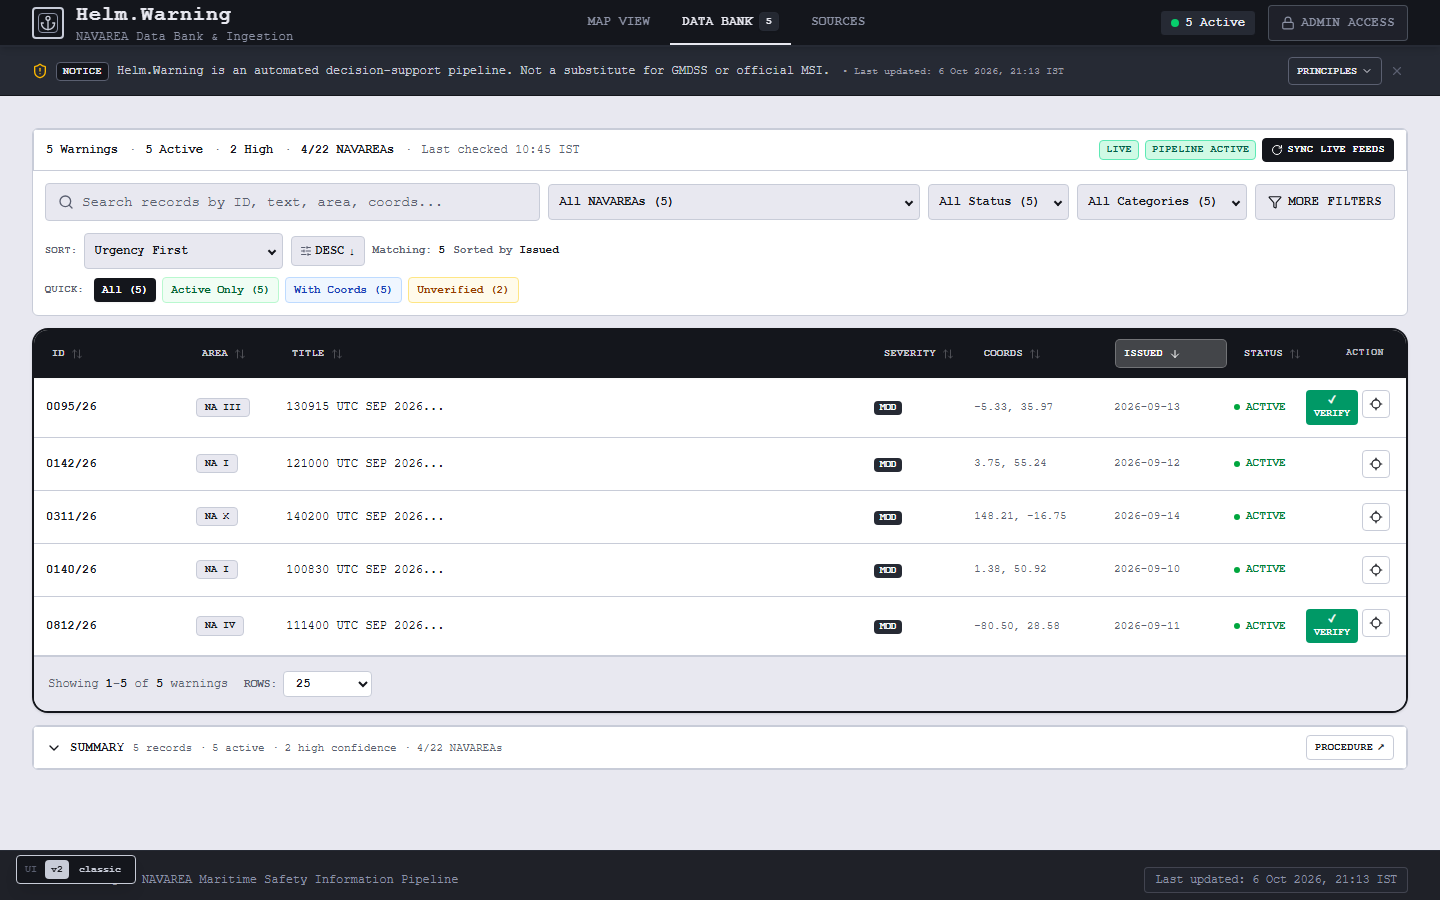
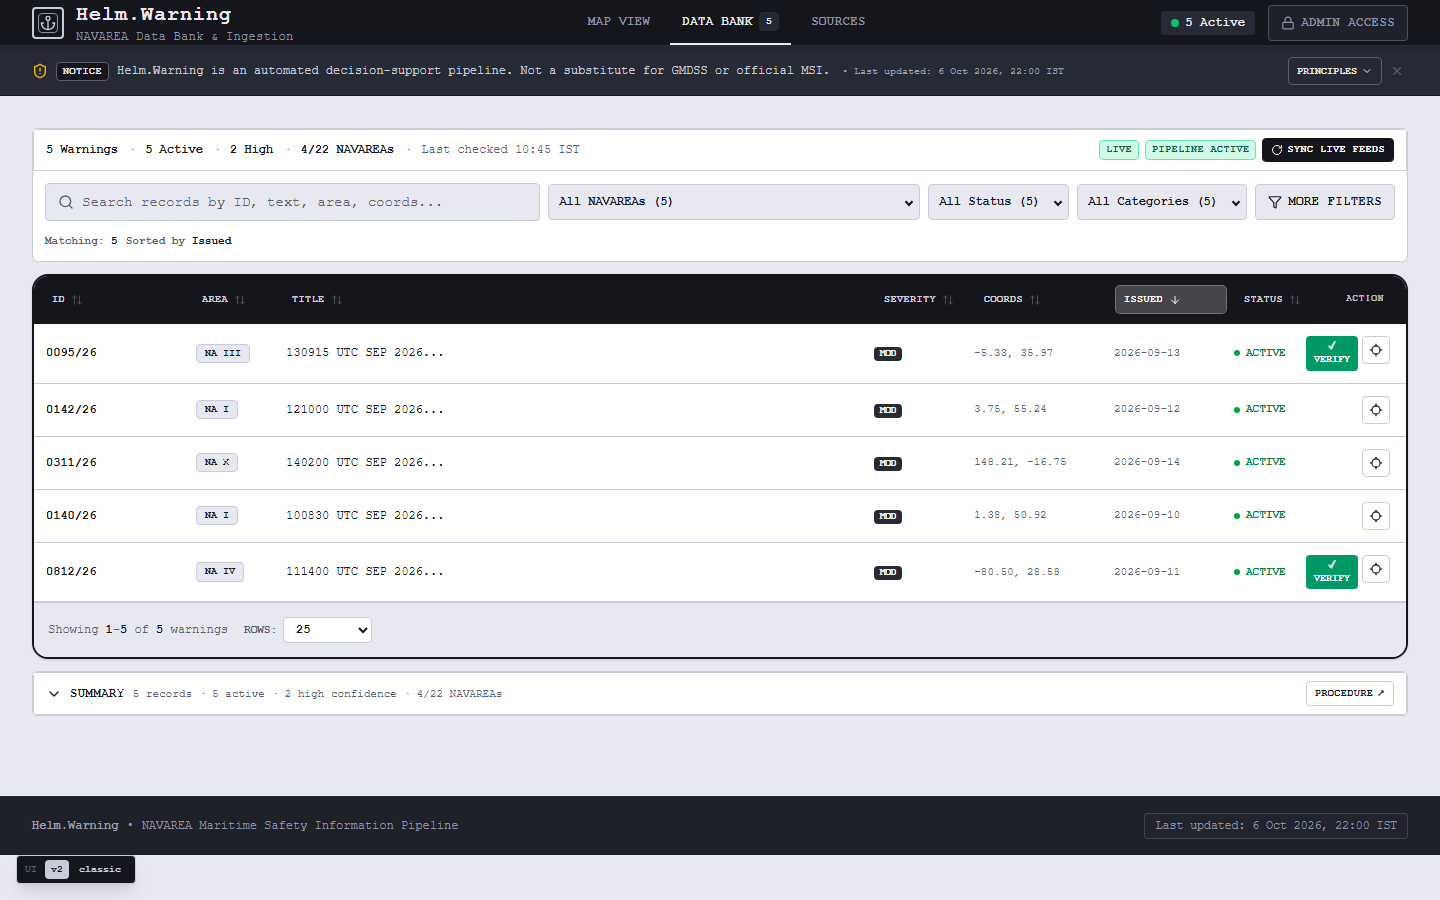
fix(ux): apply Task 3 review findings — v2 vocabulary + collapsed secondary controls
Finding 1 (constraint 10): the v2 default path newly surfaced three pre-existing
classic strings that expose parser/pipeline internals. Replaced with product
vocabulary on the v2 path only — badge fallback 'Manual Data Mode' (was
'Deterministic Parser'), summary fallback 'Manual Data Mode' (was 'Deterministic
Spatial Parser'), Sync tooltip 'Refresh live feeds now' (was 'Trigger live
pipeline fetch from hydrographic endpoints'). Classic keeps its originals; the
report's false 'no jargon added' claim is corrected.

Finding 2 (collapsed-secondary ruling): the smart-sort dropdown (#databank-sort)
and the quick-filter strip now live inside the collapsed 'More filters' panel
instead of an always-visible strip, so the primary row is exactly Search,
NAVAREA, Status, compact Category, More filters. The feedback strip (Matching
count, sort hint, Reset) and active-filter pills stay visible — they are
feedback, not controls. Default sort (Urgency First) applies regardless of the
panel state; every preset and quick filter remains reachable.

Smoke: tests 3 and 4 open More filters before interacting with the moved
controls (idempotent openMoreFilters helper); flag test unchanged. lint, vite
build and a fresh-server smoke run are green (13/13); v2 still shows 5 warning
rows above the fold at 1440x900. Screenshots and DOM dumps re-captured.

diff --git a/src/components/DataBankControls.tsx b/src/components/DataBankControls.tsx
@@ -190,44 +190,8 @@ export const DataBankControls: React.FC<{ model: DataBankModel }> = ({ model }) 
         </div>
       </div>
 
-      {/* Sort strip: single preset dropdown + direction + matching count + reset */}
+      {/* Feedback strip (not controls): result count, active sort, reset */}
       <div className="flex flex-wrap items-center gap-2 pt-1">
-        <div className="relative flex items-center gap-1.5">
-          <span className="text-[10px] font-bold uppercase tracking-wider text-gw-accent">
-            Sort:
-          </span>
-          <select
-            id="databank-sort"
-            aria-label="Sort warnings"
-            value={smartSortMode}
-            onChange={(e) => {
-              const next = e.target.value;
-              setSmartSortMode(next as typeof smartSortMode);
-              if (next !== 'custom') setSortDirection('desc');
-              setCurrentPage(1);
-            }}
-            className={selectClass(false)}
-          >
-            {SMART_SORT_OPTIONS.map((opt) => (
-              <option key={opt.id} value={opt.id}>
-                {opt.label}
-              </option>
-            ))}
-          </select>
-          {selectChevron(false)}
-        </div>
-
-        <button
-          type="button"
-          onClick={() => setSortDirection((d) => (d === 'asc' ? 'desc' : 'asc'))}
-          title="Toggle sort direction"
-          className="flex items-center gap-1 px-2 py-1.5 rounded border border-gw-secondary bg-gw-bg text-gw-primary text-xs font-bold hover:bg-white cursor-pointer"
-        >
-          <SlidersHorizontal className="w-3 h-3 text-gw-accent shrink-0" />
-          <span className="uppercase">{sortDirection === 'asc' ? 'Asc' : 'Desc'}</span>
-          <span aria-hidden="true">{sortDirection === 'asc' ? '↑' : '↓'}</span>
-        </button>
-
         <span className="text-[11px] font-bold text-gw-accent">
           Matching: <strong className="text-gw-primary tabular-nums">{sortedWarnings.length}</strong>
         </span>
@@ -245,66 +209,6 @@ export const DataBankControls: React.FC<{ model: DataBankModel }> = ({ model }) 
           >
             <X className="w-3.5 h-3.5" />
             <span>Reset</span>
-          </button>
-        )}
-      </div>
-
-      {/* Quick filters: keep the legacy one-click presets visible */}
-      <div className="flex flex-wrap items-center gap-1.5">
-        <span className="text-[10px] font-bold uppercase tracking-wider text-gw-accent mr-1">
-          Quick:
-        </span>
-
-        <button
-          type="button"
-          onClick={handleResetFilters}
-          className={`px-2 py-1 rounded text-[11px] font-bold transition-all cursor-pointer ${
-            !hasActiveFilters
-              ? 'bg-gw-primary text-white shadow-xs'
-              : 'bg-gw-bg border border-gw-secondary text-gw-primary hover:bg-gw-bg/80'
-          }`}
-        >
-          All ({warnings.length})
-        </button>
-
-        <button
-          type="button"
-          onClick={() => applyStatus('active')}
-          className={`px-2 py-1 rounded text-[11px] font-bold transition-all cursor-pointer ${
-            selectedStatus === 'active'
-              ? 'bg-green-700 text-white shadow-xs'
-              : 'bg-green-50 border border-green-200 text-green-800 hover:bg-green-100'
-          }`}
-        >
-          Active Only ({activeCount})
-        </button>
-
-        <button
-          type="button"
-          onClick={() => {
-            setCoordFilter(coordFilter === 'with_coords' ? 'ALL' : 'with_coords');
-            setCurrentPage(1);
-          }}
-          className={`px-2 py-1 rounded text-[11px] font-bold transition-all cursor-pointer ${
-            coordFilter === 'with_coords'
-              ? 'bg-blue-700 text-white shadow-xs'
-              : 'bg-blue-50 border border-blue-200 text-blue-800 hover:bg-blue-100'
-          }`}
-        >
-          With Coords ({coordsCount})
-        </button>
-
-        {unverifiedCount > 0 && (
-          <button
-            type="button"
-            onClick={() => applyStatus('unverified')}
-            className={`px-2 py-1 rounded text-[11px] font-bold transition-all cursor-pointer ${
-              selectedStatus === 'unverified'
-                ? 'bg-amber-600 text-white shadow-xs'
-                : 'bg-amber-50 border border-amber-200 text-amber-800 hover:bg-amber-100'
-            }`}
-          >
-            Unverified ({unverifiedCount})
           </button>
         )}
       </div>
@@ -399,9 +303,108 @@ export const DataBankControls: React.FC<{ model: DataBankModel }> = ({ model }) 
         </div>
       )}
 
-      {/* More filters: the controls that stay out of the primary row */}
+      {/* More filters: sort, quick filters, secondary selects, category chips */}
       {showMoreFilters && (
         <div className="pt-2 border-t border-subtle flex flex-col gap-3">
+          {/* Sort controls (secondary): dropdown + direction */}
+          <div className="flex flex-wrap items-center gap-2">
+            <div className="relative flex items-center gap-1.5">
+              <span className="text-[10px] font-bold uppercase tracking-wider text-gw-accent">
+                Sort:
+              </span>
+              <select
+                id="databank-sort"
+                aria-label="Sort warnings"
+                value={smartSortMode}
+                onChange={(e) => {
+                  const next = e.target.value;
+                  setSmartSortMode(next as typeof smartSortMode);
+                  if (next !== 'custom') setSortDirection('desc');
+                  setCurrentPage(1);
+                }}
+                className={selectClass(false)}
+              >
+                {SMART_SORT_OPTIONS.map((opt) => (
+                  <option key={opt.id} value={opt.id}>
+                    {opt.label}
+                  </option>
+                ))}
+              </select>
+              {selectChevron(false)}
+            </div>
+
+            <button
+              type="button"
+              onClick={() => setSortDirection((d) => (d === 'asc' ? 'desc' : 'asc'))}
+              title="Toggle sort direction"
+              className="flex items-center gap-1 px-2 py-1.5 rounded border border-gw-secondary bg-gw-bg text-gw-primary text-xs font-bold hover:bg-white cursor-pointer"
+            >
+              <SlidersHorizontal className="w-3 h-3 text-gw-accent shrink-0" />
+              <span className="uppercase">{sortDirection === 'asc' ? 'Asc' : 'Desc'}</span>
+              <span aria-hidden="true">{sortDirection === 'asc' ? '↑' : '↓'}</span>
+            </button>
+          </div>
+
+          {/* Quick filter presets (secondary) */}
+          <div className="flex flex-wrap items-center gap-1.5">
+            <span className="text-[10px] font-bold uppercase tracking-wider text-gw-accent mr-1">
+              Quick:
+            </span>
+
+            <button
+              type="button"
+              onClick={handleResetFilters}
+              className={`px-2 py-1 rounded text-[11px] font-bold transition-all cursor-pointer ${
+                !hasActiveFilters
+                  ? 'bg-gw-primary text-white shadow-xs'
+                  : 'bg-gw-bg border border-gw-secondary text-gw-primary hover:bg-gw-bg/80'
+              }`}
+            >
+              All ({warnings.length})
+            </button>
+
+            <button
+              type="button"
+              onClick={() => applyStatus('active')}
+              className={`px-2 py-1 rounded text-[11px] font-bold transition-all cursor-pointer ${
+                selectedStatus === 'active'
+                  ? 'bg-green-700 text-white shadow-xs'
+                  : 'bg-green-50 border border-green-200 text-green-800 hover:bg-green-100'
+              }`}
+            >
+              Active Only ({activeCount})
+            </button>
+
+            <button
+              type="button"
+              onClick={() => {
+                setCoordFilter(coordFilter === 'with_coords' ? 'ALL' : 'with_coords');
+                setCurrentPage(1);
+              }}
+              className={`px-2 py-1 rounded text-[11px] font-bold transition-all cursor-pointer ${
+                coordFilter === 'with_coords'
+                  ? 'bg-blue-700 text-white shadow-xs'
+                  : 'bg-blue-50 border border-blue-200 text-blue-800 hover:bg-blue-100'
+              }`}
+            >
+              With Coords ({coordsCount})
+            </button>
+
+            {unverifiedCount > 0 && (
+              <button
+                type="button"
+                onClick={() => applyStatus('unverified')}
+                className={`px-2 py-1 rounded text-[11px] font-bold transition-all cursor-pointer ${
+                  selectedStatus === 'unverified'
+                    ? 'bg-amber-600 text-white shadow-xs'
+                    : 'bg-amber-50 border border-amber-200 text-amber-800 hover:bg-amber-100'
+                }`}
+              >
+                Unverified ({unverifiedCount})
+              </button>
+            )}
+          </div>
+
           <div className="flex flex-wrap items-center gap-2">
             <div className="relative flex items-center">
               <select

diff --git a/scripts/ux-audit/tests/do-not-break.spec.ts b/scripts/ux-audit/tests/do-not-break.spec.ts
@@ -36,6 +36,17 @@ async function goTab(page: Page, name: 'Data Bank' | 'Sources' | 'Map View') {
   await page.getByRole('tab', { name: new RegExp(`^${name}`, 'i') }).click();
 }
 
+/**
+ * Task 3 fix round: smart-sort presets and quick filters moved into the
+ * collapsed "More filters" secondary panel on the v2 path. Idempotent.
+ */
+async function openMoreFilters(page: Page) {
+  const button = page.getByRole('button', { name: /^More filters$/ });
+  if ((await button.getAttribute('aria-expanded')) !== 'true') {
+    await button.click();
+  }
+}
+
 test.describe('public shell', () => {
   test('header tabs, active-count shortcut and tab switching keep working', async ({ page }) => {
     const errors = watchPageErrors(page);
@@ -76,6 +87,9 @@ test.describe('data bank', () => {
     await expect(page.locator('#databank-table-header')).toBeVisible();
 
     expect(await matchingCount(page)).toBe(5);
+
+    // Quick filters live in the collapsed More filters panel (Task 3 fix).
+    await openMoreFilters(page);
 
     // Quick filter: the "Unverified (n)" pill counts `status === 'unverified'
     // || extraction_confidence < 1` but the table filter matches only
@@ -135,6 +149,10 @@ test.describe('data bank', () => {
     await openApp(page);
     await goTab(page, 'Data Bank');
     await expect(page.locator('#databank-table-header')).toBeVisible();
+
+    // Task 3 fix round: the smart-sort dropdown + direction toggle live in
+    // the collapsed More filters panel; open it first.
+    await openMoreFilters(page);
 
     // Task 3: the five legacy smart-sort presets are now one dropdown on the
     // v2 path (`#databank-sort`). Values keep the legacy preset ids.

diff --git a/src/components/DataBankStatusBar.tsx b/src/components/DataBankStatusBar.tsx
@@ -63,14 +63,14 @@ export const DataBankStatusBar: React.FC<{
           Live
         </span>
         <span className="px-1.5 py-0.5 rounded text-[10px] font-bold uppercase tracking-wider text-emerald-800 bg-emerald-100 border border-emerald-300">
-          {enabledFeeds > 0 ? 'Pipeline Active' : 'Deterministic Parser'}
+          {enabledFeeds > 0 ? 'Pipeline Active' : 'Manual Data Mode'}
         </span>
         {onTriggerRefresh && (
           <button
             type="button"
             onClick={() => onTriggerRefresh()}
             disabled={isRefreshing}
-            title="Trigger live pipeline fetch from hydrographic endpoints"
+            title="Refresh live feeds now"
             className="px-2 py-1 rounded bg-gw-primary text-white font-bold uppercase tracking-wider text-[10px] border border-gw-primary hover:bg-gw-tertiary transition-all flex items-center gap-1 disabled:opacity-50 cursor-pointer"
           >
             <RotateCw className={`w-3 h-3 ${isRefreshing ? 'animate-spin' : ''}`} />

diff --git a/src/components/DataBankSummary.tsx b/src/components/DataBankSummary.tsx
@@ -160,7 +160,7 @@ export const DataBankSummary: React.FC<{
             <div className="flex items-center gap-1.5">
               <span className="w-1.5 h-1.5 rounded-full bg-emerald-600 animate-pulse shrink-0" />
               <span className="font-bold text-gw-primary">
-                {enabledFeeds > 0 ? 'Dynamic Ingestion Pipeline Active' : 'Deterministic Spatial Parser'}
+                {enabledFeeds > 0 ? 'Dynamic Ingestion Pipeline Active' : 'Manual Data Mode'}
               </span>
               <span>({enabledFeeds > 0 ? `${enabledFeeds} Feeds Configured` : 'No live feeds configured'})</span>
             </div>
